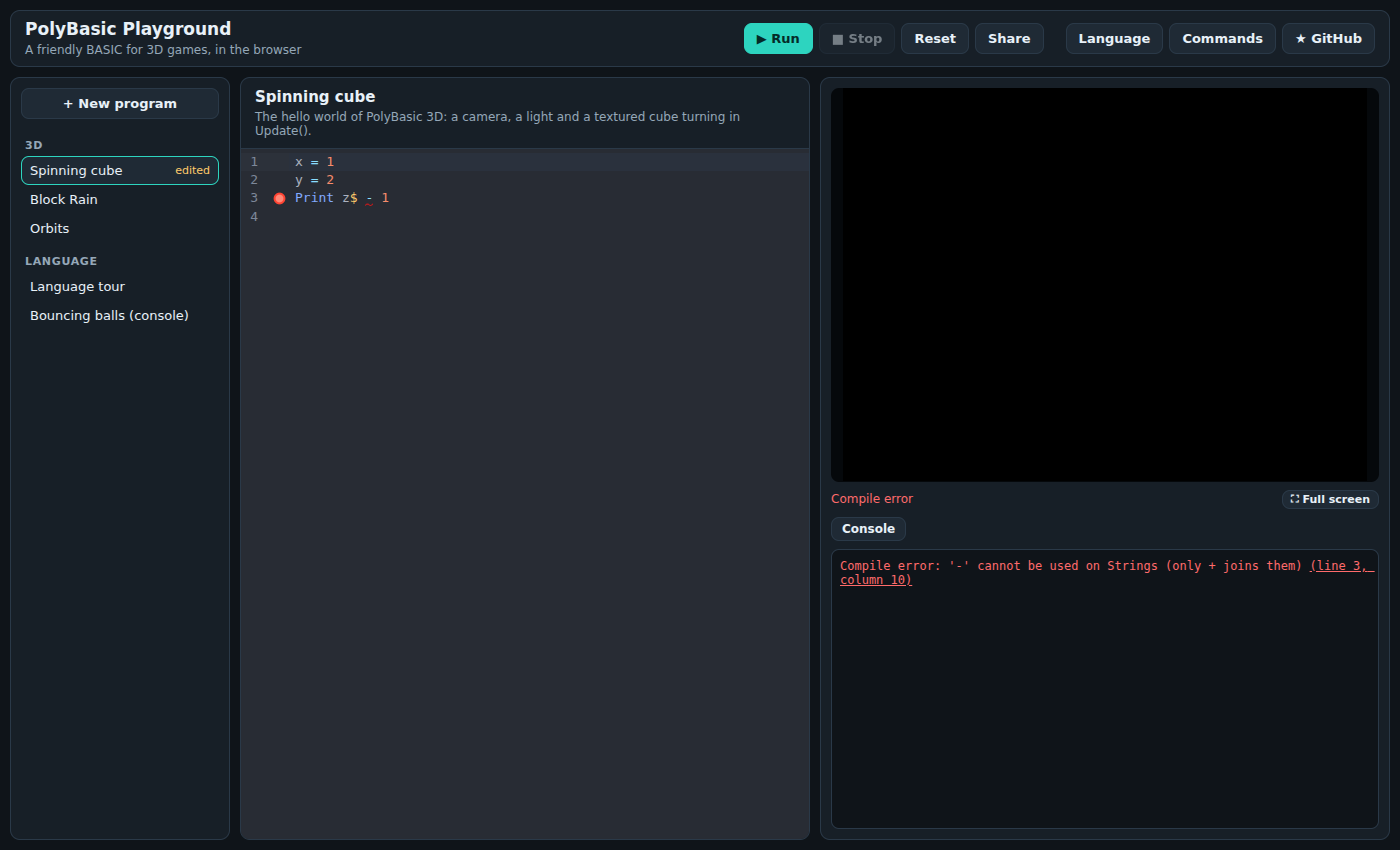
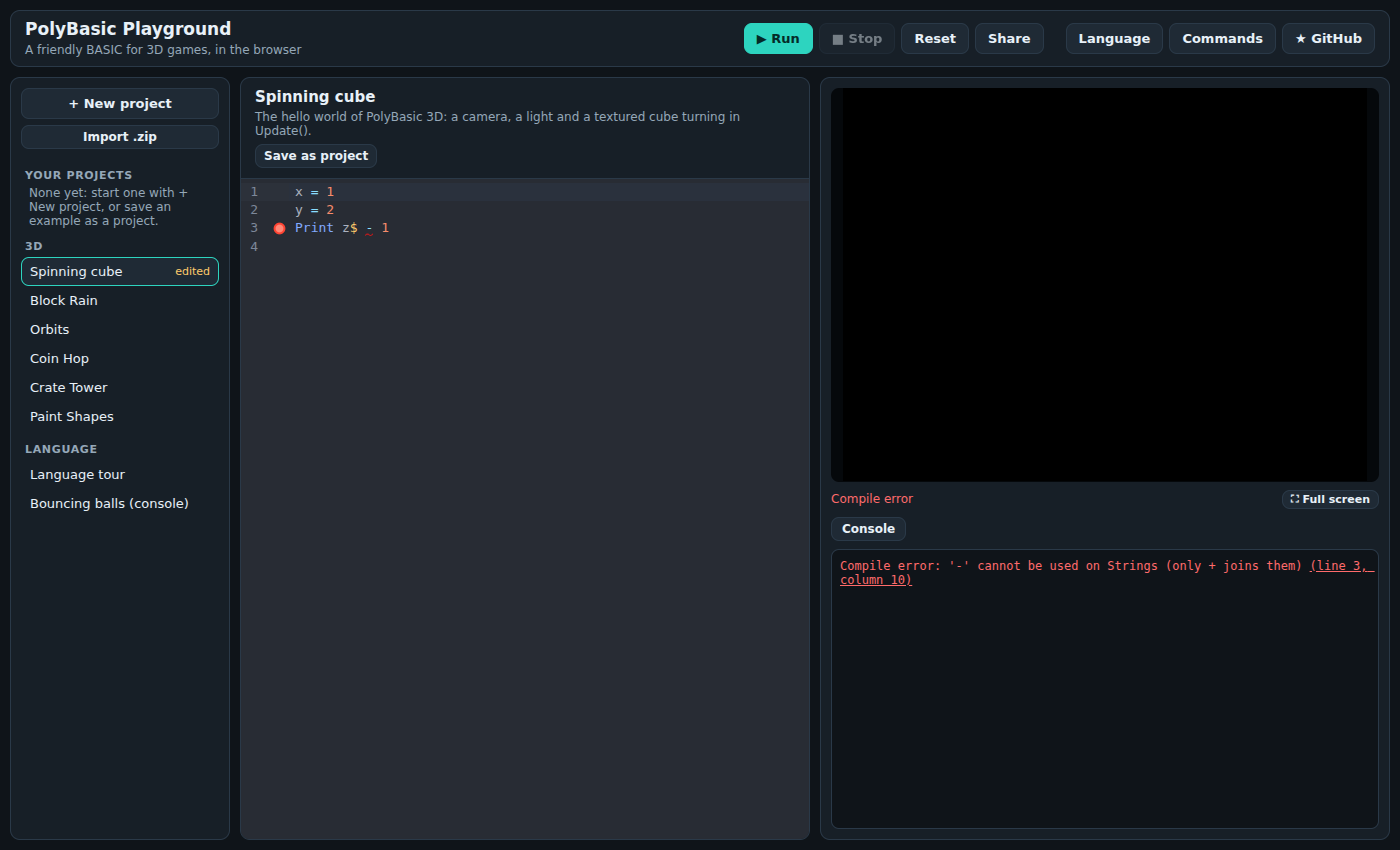
Playground docs, root page, screenshots
docs/playground.md describes projects, files, paths, .zip and the
one-page export. The site root leads to the playground, and .nojekyll
serves the files as they are. The browser check for projects now loads
a texture from an included file.

diff --git a/index.html b/index.html
@@ -1,0 +1,12 @@
+<!DOCTYPE html>
+<html lang="en">
+<head>
+  <meta charset="UTF-8">
+  <title>PolyBasic</title>
+  <meta http-equiv="refresh" content="0; url=web/">
+  <link rel="canonical" href="web/">
+</head>
+<body>
+  <p>The PolyBasic playground is at <a href="web/">web/</a>.</p>
+</body>
+</html>

diff --git a/docs/playground.md b/docs/playground.md
@@ -1,0 +1,89 @@
+# The playground
+
+The playground (`web/index.html`) is where PolyBasic programs are written
+and run in the browser. It has two kinds of programs:
+
+- **Examples**, listed under *3D* and *Language*. Edits to an example are
+  kept in this browser (the list marks it *edited*); **Reset** goes back to
+  the original, and **Share** copies a link that carries the code.
+- **Your projects**, listed under *Your projects*. A project is a set of
+  files (programs, images, models) with one **main** program, where Run
+  starts.
+
+![A project made from the Coin Hop example](screenshots/playground-project.png)
+
+## Projects
+
+- **+ New project** starts a project with one file, `main.pb`.
+- **Save as project** (on an example) copies the example and the files it
+  uses (textures, models) into a new project, which then runs from its own
+  files.
+- **Rename**, **Delete** act on the open project.
+- Typing saves the file being edited in the browser a moment later;
+  Ctrl+S (Cmd+S) saves at once.
+
+Projects are stored in the browser's IndexedDB, so they stay after the page
+is closed, but only in this browser on this computer, and clearing the
+site's data deletes them. Download a project as .zip to keep a copy. When
+the browser does not allow the playground to store anything (some private
+windows), the console says so and projects last until the page is closed.
+
+## Files
+
+The open project shows its files as a tree, with the main program first.
+
+- **+ File** adds a file; a name with folders (`lib/enemies.pb`) makes
+  them.
+- **Upload…** adds files from the computer: `.pb` files go at the top of the
+  project, everything else goes in `assets/`.
+- **Make main**, **Rename file**, **Delete file** act on the open file. The
+  main program cannot be deleted; make another file the main one first.
+- Choosing an image or a model shows its size, a preview (images), and the
+  line that loads it from the main program, such as
+  `tex = LoadTexture("assets/tile.png")`.
+
+`Include "lib/game.pb"` adds another program file of the project; its
+path is relative to the file that has the Include (see
+[language.md](language.md#include)). Files loaded while the program runs
+(`LoadTexture`, `LoadMesh`, ...) are relative to the main program, from
+whichever file the command is in: with `main.pb` at the top,
+`LoadMesh("assets/ship.glb")` works in `main.pb` and in `lib/game.pb`
+alike. A program in a project reads only the project's files; a name that
+is not in the project is an error that names the file.
+
+While typing, a compile error in another file of the project shows on
+line 1 of the open file, with the file and line it is in. After Run, the
+file with the error is opened at its line, and the console links to it.
+
+![A project with several files](screenshots/playground-files.png)
+
+## Out of the playground
+
+- **Download .zip** saves the project as a .zip file: the files at their
+  paths, and `polybasic.json` with the project's name and main program.
+- **Import .zip** (in the sidebar) makes a new project from a .zip. Zips
+  made by hand work too: a single folder around everything is taken off,
+  system files (`__MACOSX`, `.DS_Store`, `Thumbs.db`) are left out, and
+  without `polybasic.json` the main program is `main.pb`, or the only `.pb`
+  file at the top, or the only `.pb` file.
+- **Export page** saves the project as one .html file that plays it: the
+  engine, the compiled program and every file of the project are inside the
+  page, so it runs from any web server and when opened straight from the
+  disk, with no other downloads. The physics engine is included only when
+  the program uses physics commands. Without the project's own files the
+  page is about 1.4 MB, or 4.2 MB with physics; the files add about a
+  third more than their own size (they are stored as base64).
+
+![An exported page, opened from the disk](screenshots/exported-page.png)
+
+## Running it
+
+The playground is a static site: serve the repository with any web server
+and open `/web/`.
+
+```
+python3 -m http.server 8080
+# then open http://localhost:8080/web/
+```
+
+`web/player.html?src=../examples/block-rain.pb` runs one program full page.

diff --git a/README.md b/README.md
@@ -53,11 +53,19 @@ function is ordinary synchronous JavaScript. The full story is in
 
 ## The playground
 
-`web/index.html` is a small playground: a code editor with highlighting,
+`web/index.html` is the playground: a code editor with highlighting,
 completion and live error marks, Run/Stop, the 3D screen, a console for
-`Print` and errors (click an error to jump to its line), the examples, Share
-links that carry the code in the URL, and full screen. Serve the repository
-with any static server and open `/web/`:
+`Print` and errors (click an error to jump to its line), the examples and
+full screen. Projects hold several files (programs, textures, glTF
+models), are kept in the browser, go out and come back as .zip files, and
+export as one web page that plays the game anywhere, even opened from the
+disk. Examples can be edited, shared as links, or saved as projects. The
+full story is in [docs/playground.md](docs/playground.md).
+
+![A project in the playground](docs/screenshots/playground-project.png)
+
+It is a static site: serve the repository with any web server and open
+`/web/` (the root page leads there):
 
 ```
 python3 -m http.server 8080
@@ -134,9 +142,9 @@ src/engine/commands.js   the 3D, 2D and input commands
 src/node.js              Node glue: files from disk, physics on Rapier
 dist/polybasic.js        the browser build (npm run build)
 dist/physics.js          the physics engine for the browser, fetched only when used
-web/                     the playground and the player page
+web/                     the playground (projects, zip, page export) and the player page
 examples/                example programs; assets/kenney has CC0 models by Kenney
-docs/                    language.md, commands-3d.md
+docs/                    language.md, commands-3d.md, playground.md
 tests/                   golden programs, unit tests, browser tests, benchmark
 ```
 
@@ -150,7 +158,8 @@ tests/                   golden programs, unit tests, browser tests, benchmark
 3. **Collisions, picking and physics** behind PolyBasic's own commands
    (Rapier first), and glTF models loaded into our own mesh data, with
    their node animations. Done.
-4. **The full playground**: projects with files, export to a single page.
+4. **The full playground**: projects with files, kept in the browser,
+   .zip import and export, export to a single page. Done.
 5. **Games**: more original example games written in PolyBasic.
 
 ## Licence
